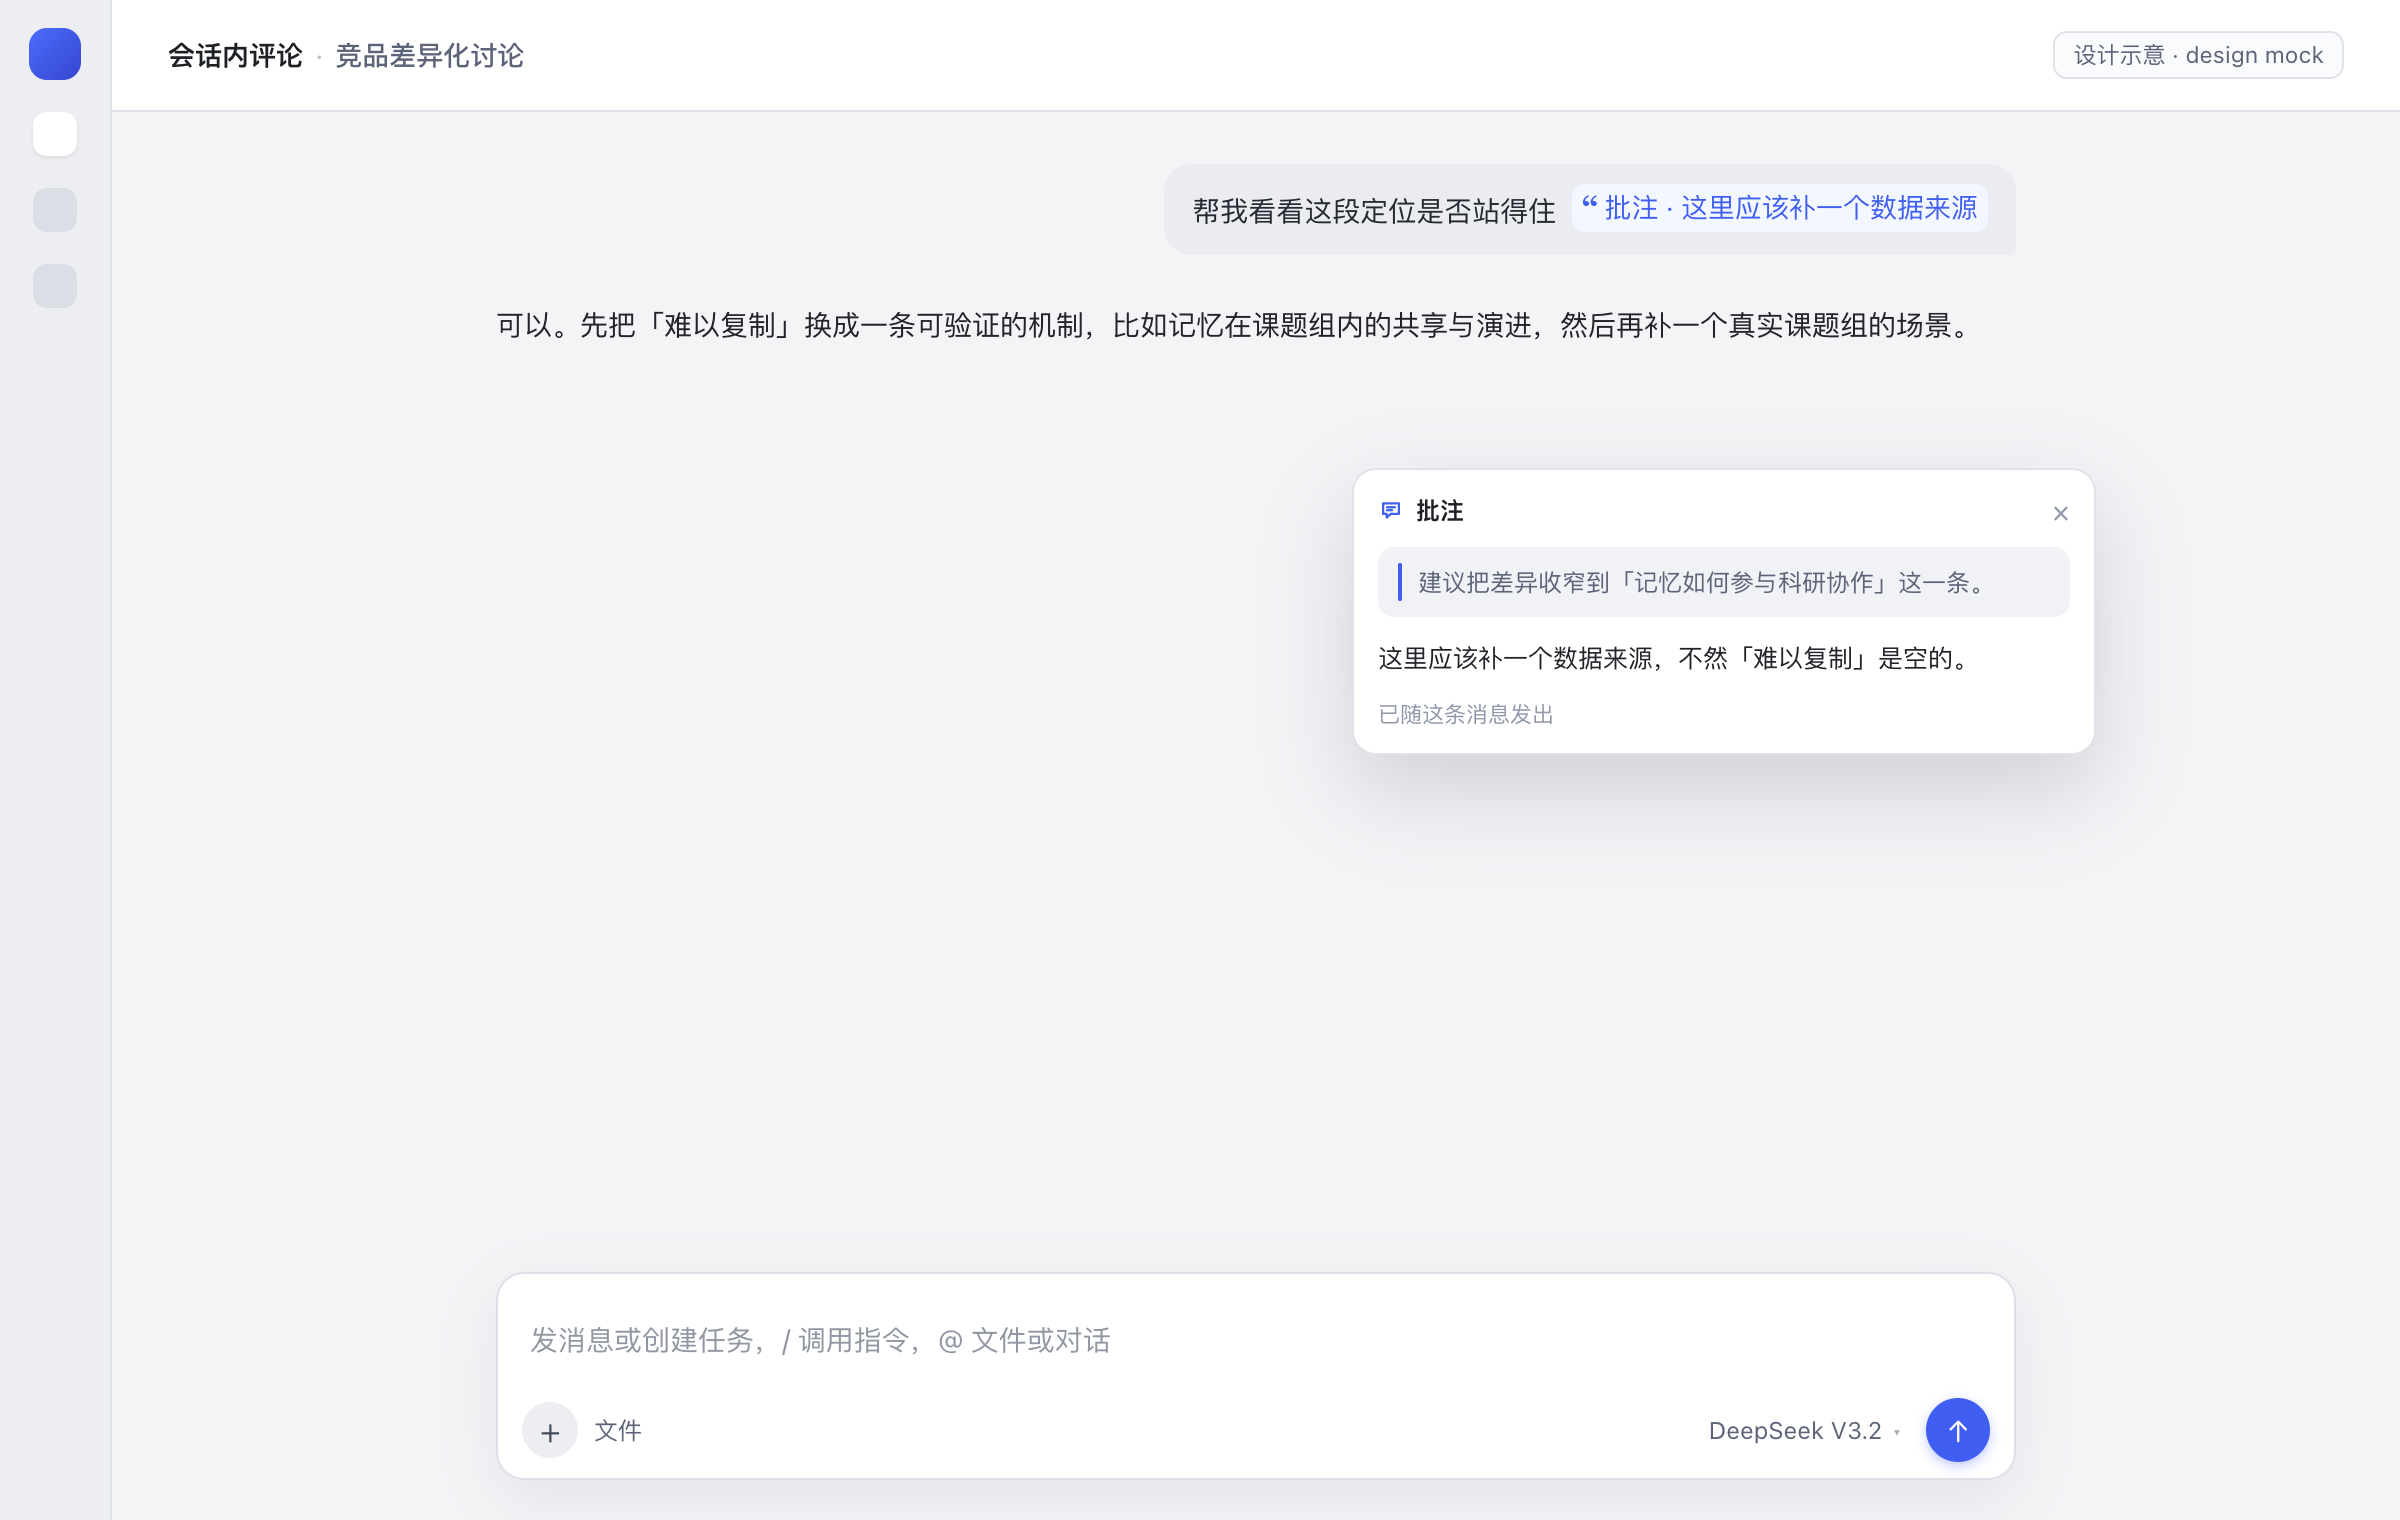
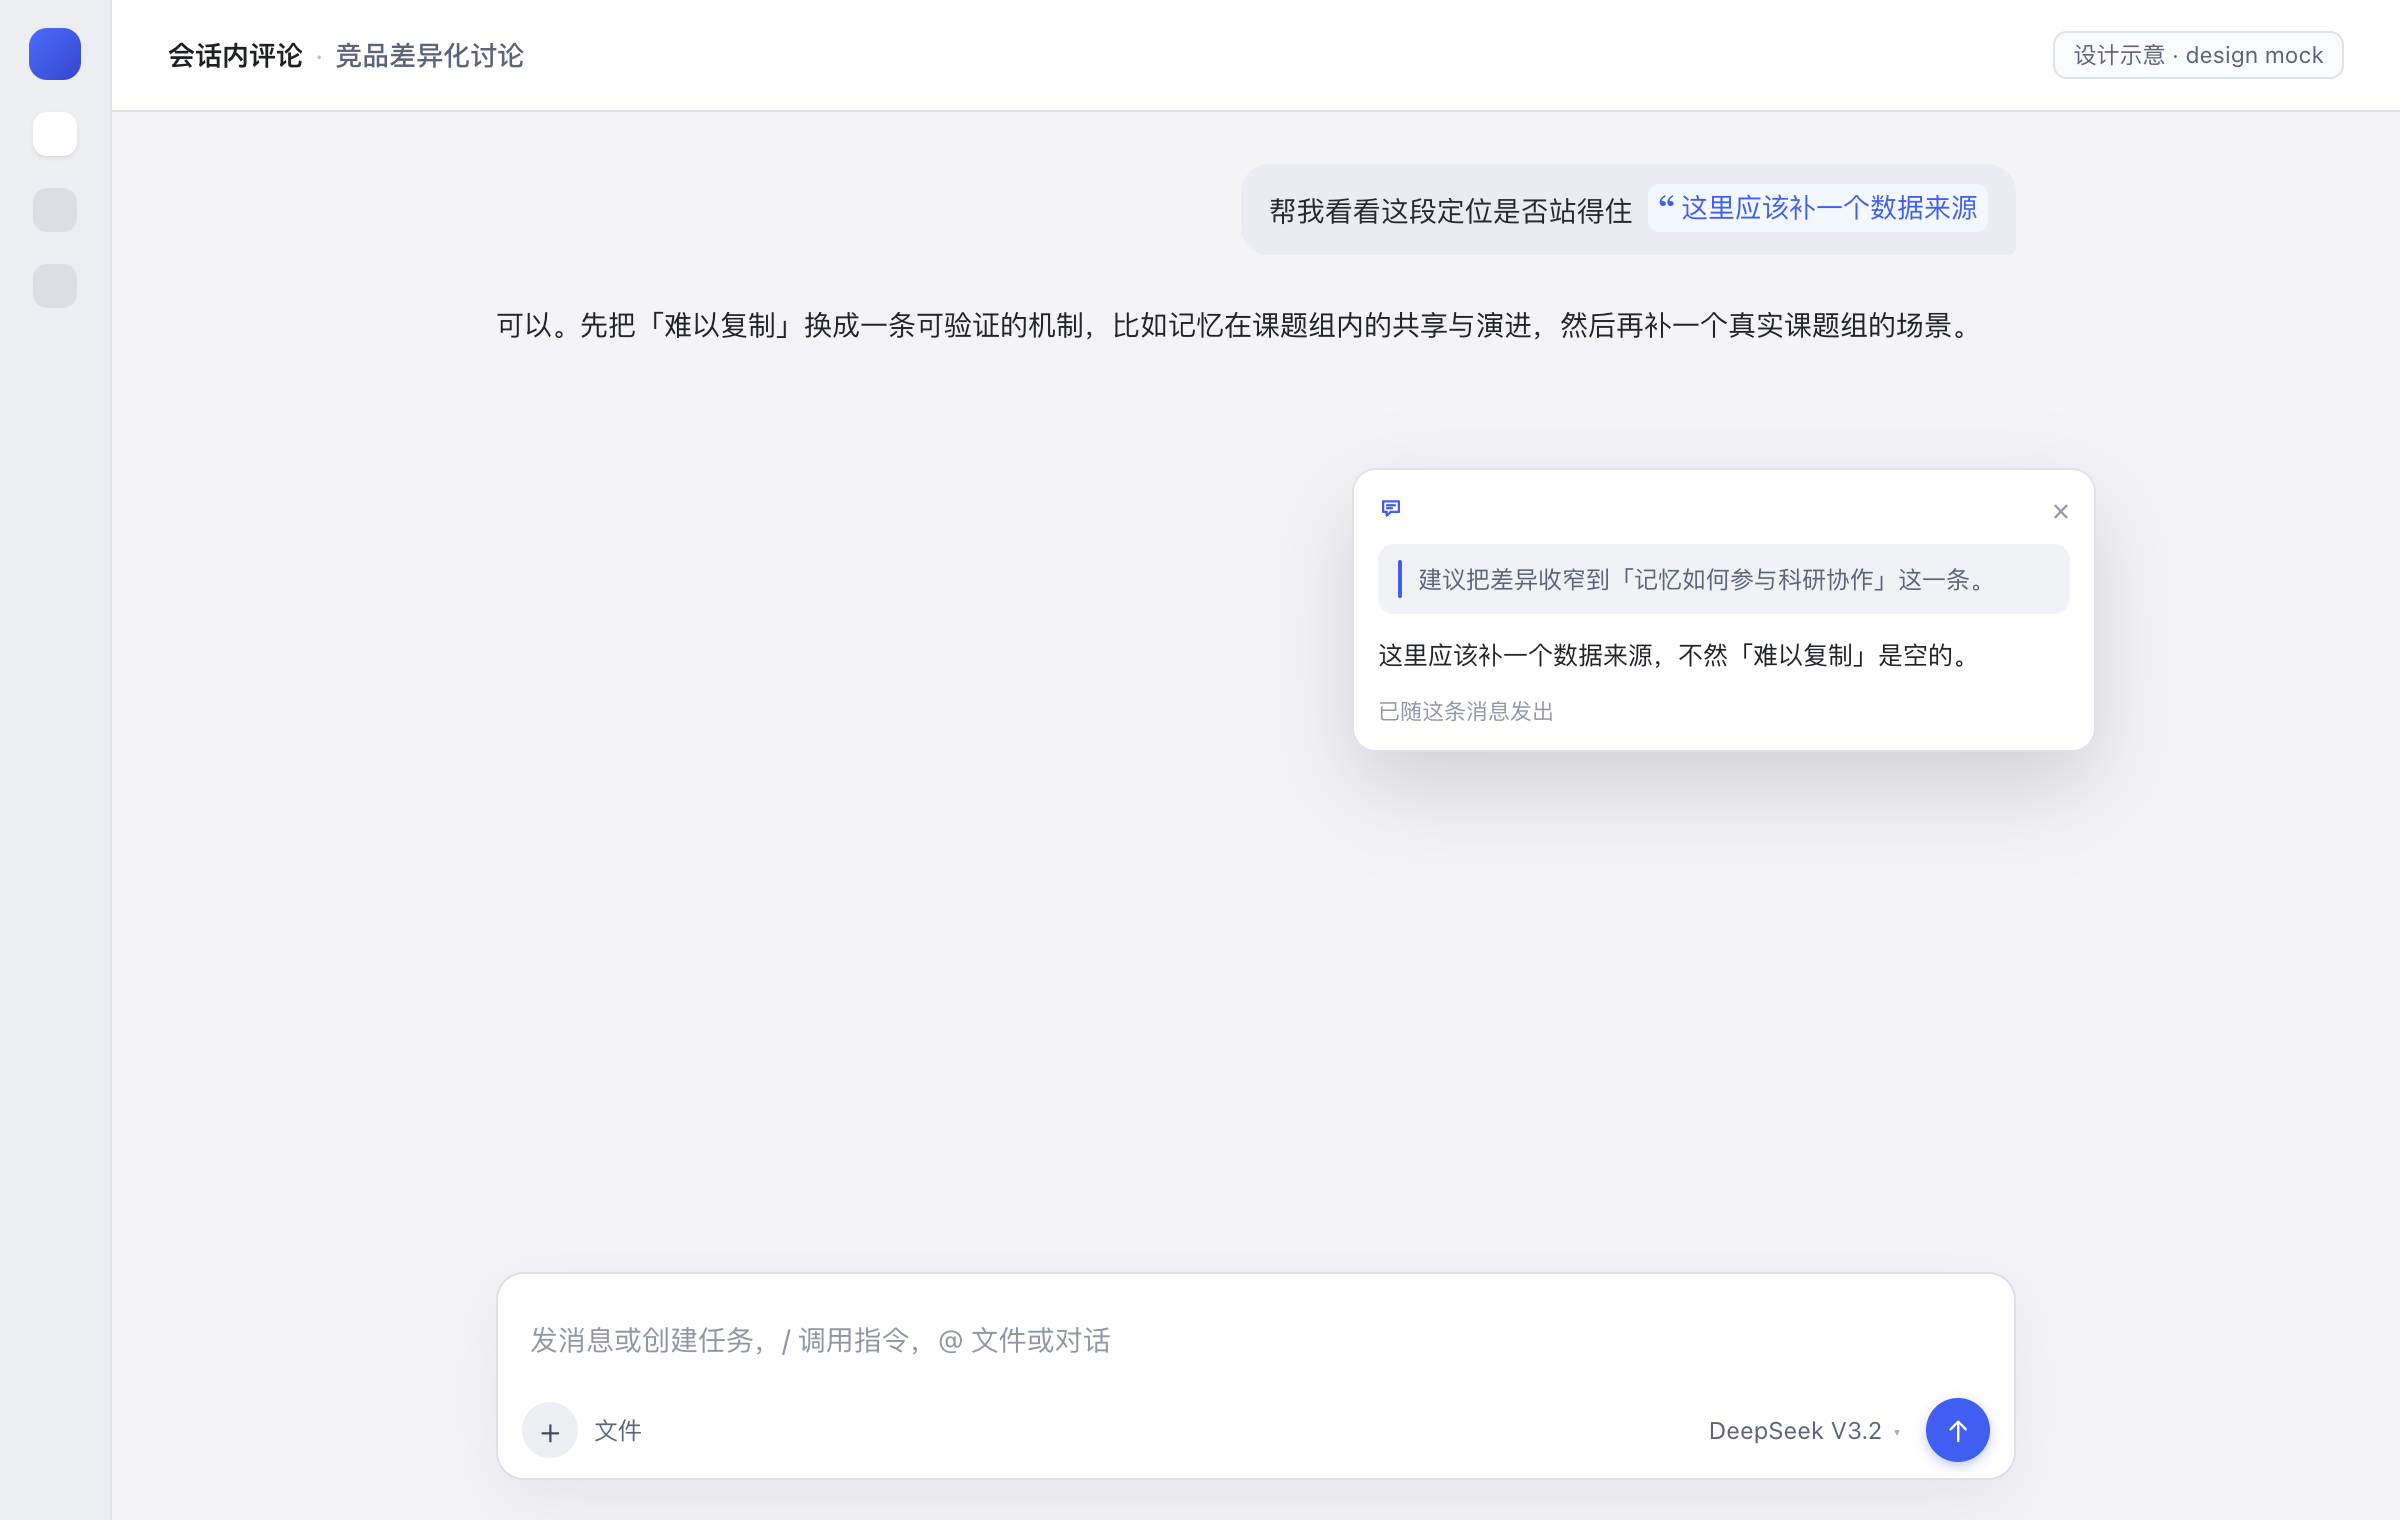
fix: unify card surface and drop redundant chip labels

Changed region(s): [[0.5625, 0.3711, 0.8125, 0.4947], [0.5, 0.1237, 0.6875, 0.1546]]

diff --git a/docs/mock/ui-mock.html b/docs/mock/ui-mock.html
@@ -201,7 +201,6 @@
     <div class="peek" style="left:560px;bottom:150px">
       <div class="card-head">
         <svg viewBox="0 0 16 16" width="13" height="13" fill="none" stroke="#2b6cf6" stroke-width="1.4" stroke-linecap="round" stroke-linejoin="round"><path d="M3.1 3.3h9.8v6.5H7.9l-2.6 2.3v-2.3H3.1V3.3Z"/><path d="M5.6 5.7h4.8"/><path d="M5.6 7.5h3"/></svg>
-        <div class="card-title">批注</div>
         <div class="card-x">×</div>
       </div>
       <div class="quote"><div class="quote-bar"></div><div class="quote-text">建议把差异收窄到「记忆如何参与科研协作」这一条。</div></div>
@@ -212,7 +211,7 @@
       <div class="composer-card">
         <div class="input">
           <span>帮我看看这段定位是否站得住</span>
-          <span class="chip"><span class="chip-q">“</span>批注 · 这里应该补一个数据来源</span>
+          <span class="chip"><span class="chip-q">“</span>这里应该补一个数据来源</span>
           <span class="caret"></span>
         </div>
         <div class="toolbar">
@@ -239,7 +238,7 @@
       <div class="turn user">
         <div class="bubble">
           帮我看看这段定位是否站得住
-          <span class="chip" style="margin-left:4px;vertical-align:1px"><span class="chip-q">“</span>批注 · 这里应该补一个数据来源</span>
+          <span class="chip" style="margin-left:4px;vertical-align:1px"><span class="chip-q">“</span>这里应该补一个数据来源</span>
         </div>
       </div>
       <div class="turn assistant">
@@ -248,7 +247,6 @@
       <div class="peek" style="left:620px;top:178px;width:372px">
         <div class="card-head">
           <svg viewBox="0 0 16 16" width="13" height="13" fill="none" stroke="#2b6cf6" stroke-width="1.4" stroke-linecap="round" stroke-linejoin="round"><path d="M3.1 3.3h9.8v6.5H7.9l-2.6 2.3v-2.3H3.1V3.3Z"/><path d="M5.6 5.7h4.8"/><path d="M5.6 7.5h3"/></svg>
-          <div class="card-title">批注</div>
           <div class="card-x">×</div>
         </div>
         <div class="quote"><div class="quote-bar"></div><div class="quote-text">建议把差异收窄到「记忆如何参与科研协作」这一条。</div></div>

diff --git a/client.js b/client.js
@@ -187,7 +187,10 @@ window.__ModuleLoader__.load({
   padding: 12px;
   border-radius: 12px;
   border: 1px solid var(--dsw-alias-border-l1);
-  background: var(--dsw-alias-bg-overlay);
+  /* Opaque raised surface, matching the sent-message preview. A translucent
+     overlay token made the same card look gray over the composer and white
+     over the transcript. */
+  background: var(--dsw-alias-bg-layer-1);
   color: var(--dsw-alias-label-primary);
   box-shadow: 0 16px 40px rgba(0, 0, 0, 0.18);
   pointer-events: auto;
@@ -703,7 +706,7 @@ window.__ModuleLoader__.load({
           'data-inline-comment-chip': '',
           role: 'button',
           tabIndex: 0,
-          'aria-label': `${t('chipLabel')}${summary ? ` · ${summary}` : ''}`,
+          'aria-label': summary ? `${t('chipLabel')}：${summary}` : t('chipLabel'),
           onMouseEnter: show,
           onMouseLeave: () => schedulePeekHide(),
           onClick: show,
@@ -718,7 +721,7 @@ window.__ModuleLoader__.load({
         h(
           'span',
           { className: 'sa-msg-chip-label' },
-          `${t('chipLabel')}${summary ? ` · ${summary}` : ''}`,
+          summary || t('chipLabel'),
         ),
       );
     }
@@ -1391,7 +1394,7 @@ window.__ModuleLoader__.load({
                   const reference = {
                     source: CHIP_SOURCE,
                     ref,
-                    label: summary ? `${t('chipLabel')} · ${summary}` : t('chipLabel'),
+                    label: summary || t('chipLabel'),
                     appearance: 'file',
                     clipboardText: `[${t('chipLabel')}]`,
                   };
@@ -1495,7 +1498,6 @@ window.__ModuleLoader__.load({
                   'div',
                   { className: 'sa-head' },
                   h('span', { className: 'sa-head-icon' }, h(AnnotationIcon, { size: 13 })),
-                  h('div', { className: 'sa-title' }, t('peekTitle')),
                   h(
                     'button',
                     {
